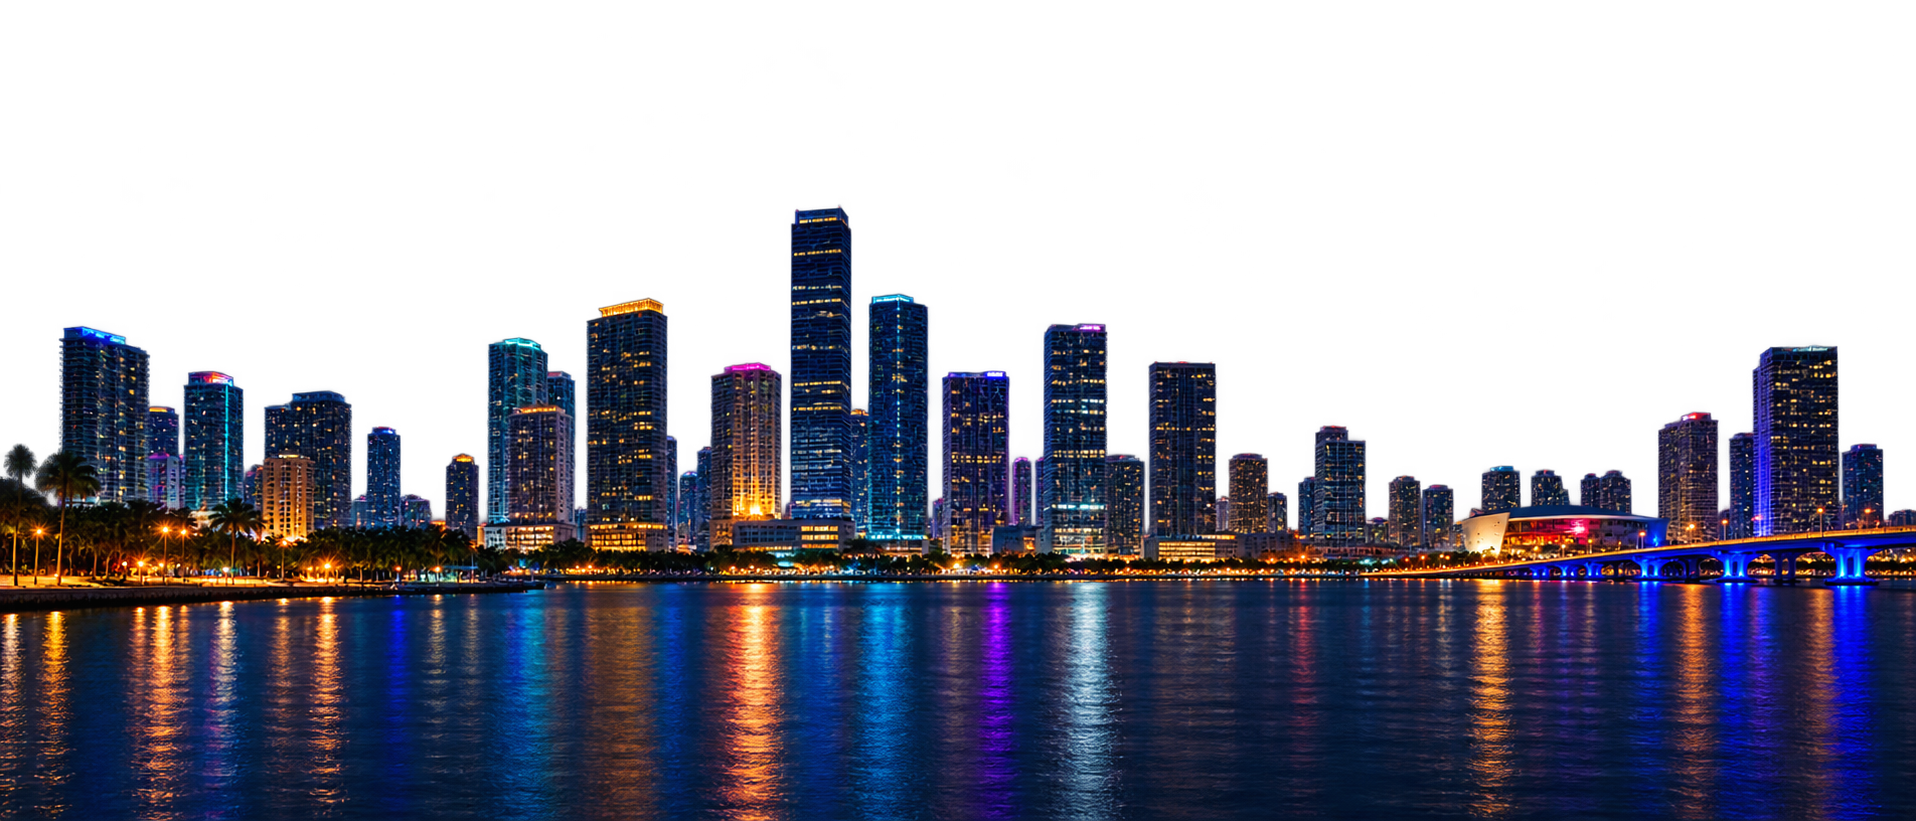
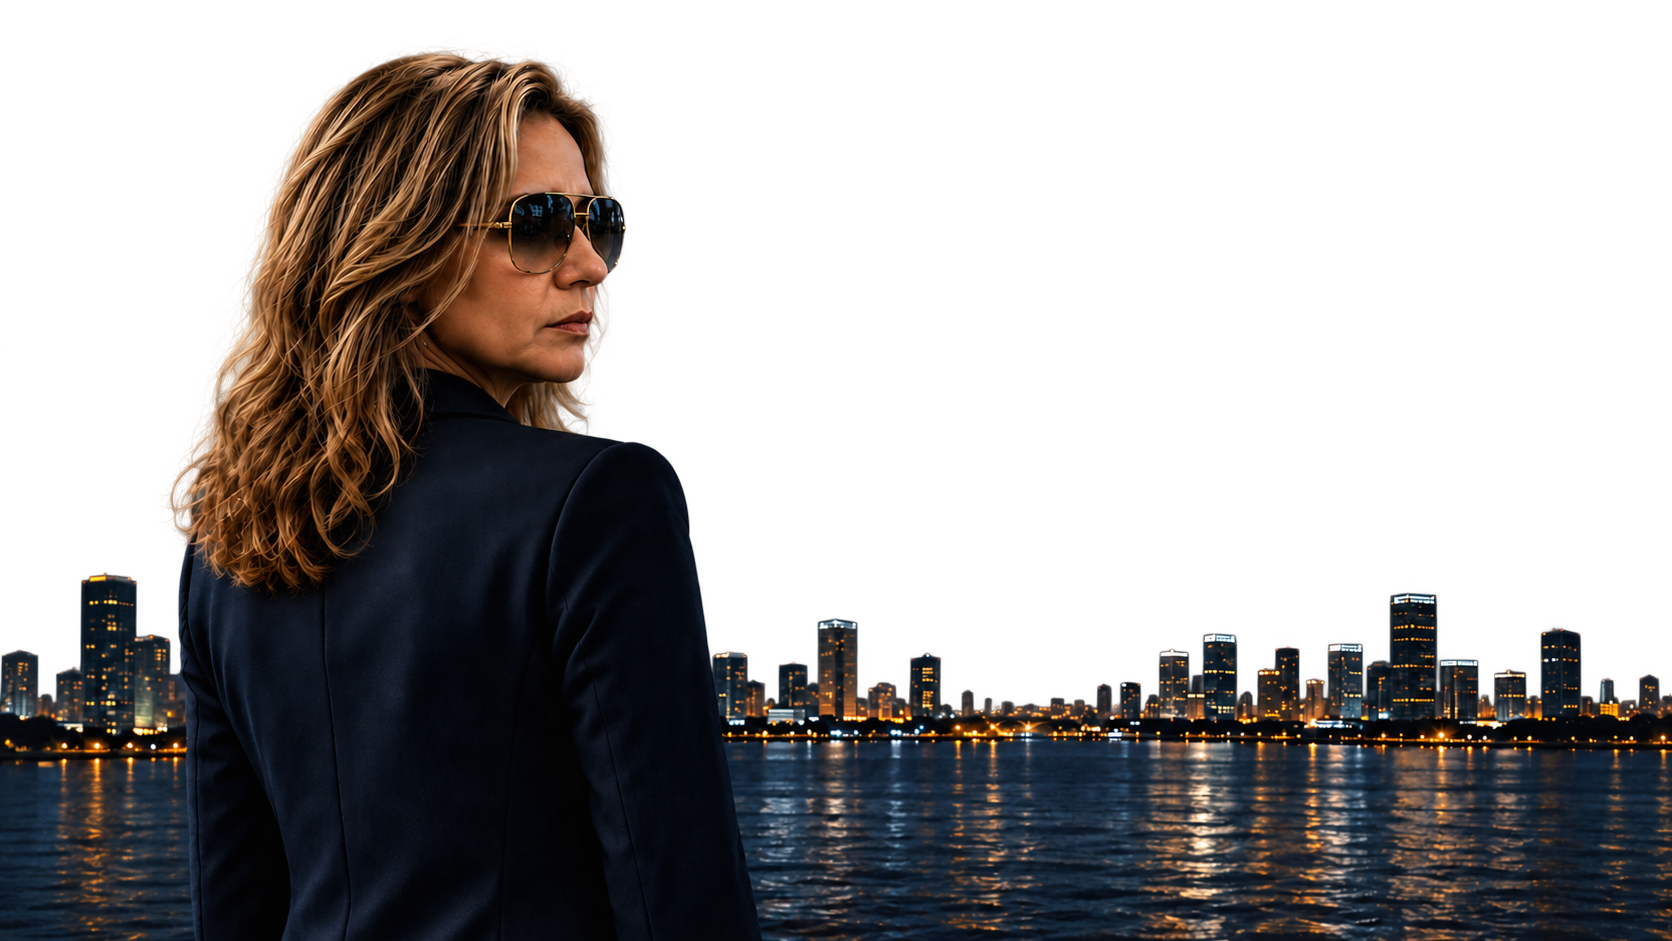
Fix visual fidelity bugs found via automated browser screenshot QA
Installed Playwright in an isolated scratchpad (not a project dependency)
to screenshot localhost and compare directly against the Figma reference
captures. Found and fixed 3 real bugs:

- Header nav and Service item zigzag content were invisible on desktop:
  the CSS-only <details> "force open" trick only overrode display on the
  child, but modern Chromium hides closed <details> content via
  content-visibility on the ::details-content pseudo-element. Now
  overridden directly.
- Hero photo used the wrong Figma image node (skyline only) instead of
  the composited photo (person + skyline, transparent background).
- Mobile order didn't match Figma: Hero should show the brand lockup
  before the photo (not after), and About should show the stats grid
  before the bio text with no photo at all on mobile (desktop-only).
  Also fixed ValueBadges to show a single row of 5 icons on mobile
  instead of a 2-column wrap.

diff --git a/CLAUDE.md b/CLAUDE.md
@@ -131,10 +131,8 @@ Ver `PROJECT_STATUS.md` para el detalle completo por fases. Estado actual resumi
 - [x] Fase 0 — Acceso y descubrimiento de Figma
 - [x] Fase 1 — Arquitectura
 - [x] Fase 2 — Design System (componentes base)
-- [x] Fase 3 — Primera página (Home) — implementación completa; QA visual pixel-a-pixel pendiente (sin navegador disponible en este entorno)
-- [ ] Fase 2 — Design System
-- [ ] Fase 3 — Primera página (Home)
-- [ ] Fase 4 — Páginas internas
+- [x] Fase 3 — Primera página (Home) — implementación completa; QA visual pixel-a-pixel en curso con el usuario
+- [ ] Fase 4 — Páginas internas (no aplica como páginas separadas, ver decisión de sitio de una sola página)
 - [ ] Fase 5 — Responsive global
 - [ ] Fase 6 — SEO técnico
 - [ ] Fase 7 — Performance
@@ -164,3 +162,9 @@ _(Se irá completando a medida que se tomen decisiones de arquitectura/diseño/s
 - **2026-09-18:** Acceso a Figma obtenido vía API REST + Personal Access Token del usuario (archivo `TARGET-investigations`, file key `wNuM1O9AljP8HJUpOXFFro`). Auditoría de Fase 0 completada (estructura, contenido real, colores, tipografías, componentes). Usuario confirmó: (1) usar la versión "Moodboard" del frame Website como vigente, (2) el sitio es de una sola página con navegación por anclas, (3) interpolar el breakpoint tablet con criterio propio ante la ausencia de un frame de tablet en Figma. Ver sección Figma para el detalle completo.
 - **2026-09-18:** Fase 1 completada (Astro + TS strict, ESLint/Prettier, design tokens, site.config, layout base, git init + commit inicial). Fase 2 completada: componentes del Design System (Container, Section, Button, Header, Footer, ValueBadges, StatBadges, AccordionItem/FaqAccordion, SocialLink), con íconos reales exportados de Figma (logo, 5 value badges, 4 redes sociales). Se documentaron 2 deviaciones de diseño (ver "Decisiones confirmadas" arriba): FAQ como acordeón vertical en vez de tablero masonry, y botón CTA con color sólido en vez del gradiente exacto de Figma.
 - **2026-09-18:** Usuario preguntó por las diferencias entre el acceso vía API REST+Token (actual) y Dev Mode MCP Server; se concluyó que no hay limitación real de datos con el método actual (se verificó extrayendo el gradiente exacto del botón, que sí estaba disponible), y se decidió continuar con la API REST. Se aplicó el gradiente exacto del botón (`linear-gradient(90deg, #E9C37E 0%, #D4A95A 100%)`), resolviendo esa deviación. Fase 3 completada: se exportaron las fotos reales de Figma (hero, about, y las 2 fotos reutilizadas en las 9 tarjetas de servicio — confirmado que Figma reutiliza las mismas 2 imágenes en las 9 categorías), optimizadas automáticamente a WebP responsive vía `astro:assets`. Se ensambló el Home completo (Hero, Services, About, FAQs, Contact, Footer) con contenido 100% real. **Limitación de este entorno:** no hay navegador disponible para hacer QA visual pixel-a-pixel contra Figma; la implementación se validó con `check`/`lint`/`build`/`curl`, pero la comparación visual formal (Fase 24) queda pendiente.
+- **2026-09-18:** Se instaló Playwright de forma aislada (fuera del proyecto, en el scratchpad de la sesión) para poder tomar capturas del `localhost:4321` y compararlas directamente contra las capturas de Figma. Esto permitió detectar y corregir 3 bugs reales de fidelidad visual:
+  1. **Bug de `<details>`/`::details-content` en Chromium moderno:** el truco CSS-only para forzar "abierto" el Header nav y el zigzag de Services en desktop (`display:flex` en el hijo) no funcionaba, porque los navegadores actuales ocultan el contenido cerrado de `<details>` vía `content-visibility` en el pseudo-elemento `::details-content`, no solo con `display:none`. El nav del header y el contenido de las tarjetas de servicio literalmente no se veían en desktop. **Fix:** anular `::details-content { content-visibility: visible; block-size: auto; }` en el breakpoint desktop, en `Header.astro` y `ServiceItem.astro`.
+  2. **Foto del Hero incorrecta:** se había usado el nodo de Figma equivocado (`53:61`, solo el skyline) en vez del nodo con la foto compuesta real (`174:113`, mujer + skyline con fondo transparente). Corregido en `src/images/hero.png`.
+  3. **Orden mobile incorrecto en Hero y About:** en Figma mobile, el Hero muestra el lockup/tagline/botón ANTES de la foto (no después), y la sección About muestra el grid de stats ANTES de la bio y **sin foto visible** (la foto de About es solo para desktop). Corregido con reordenamiento de DOM + `order`/`grid-template-areas` en `Hero.astro` y `About.astro`. También se corrigió `ValueBadges.astro` para mostrar los 5 íconos en una sola fila también en mobile (antes era grid de 2 columnas).
+
+  Ninguno de estos bugs era evidente sin comparación visual real — quedaron documentados aquí porque confirman el valor de tener acceso a navegador para QA, más allá de lo que decía el JSON de Figma.

diff --git a/PROJECT_STATUS.md b/PROJECT_STATUS.md
@@ -73,7 +73,7 @@ Leyenda: `[ ]` Pendiente · `[~]` En progreso · `[x]` Completado · `[!]` Bloqu
 - [x] Implementación desktop — Hero (split foto/lockup), Services (zigzag 9 categorías), About (bio + stats), FAQs, CTA, Footer
 - [x] Implementación mobile — Hero apilado, Services como acordeón nativo (`<details>`), menú de header sin JS
 - [ ] Validación responsive intermedio (tablet) — implementado con breakpoint interpolado (1024px para el cambio zigzag/acordeón y grid de footer/about; 768px para grid de footer), **pendiente de revisión visual real en dispositivo/DevTools**
-- [ ] Revisión de fidelidad pixel-a-pixel vs. Figma — **pendiente**: no se pudo renderizar un navegador en este entorno para comparar visualmente contra las capturas de Figma; se construyó con las medidas/colores/contenido reales extraídos, pero falta el QA visual lado a lado (ver sección "Pendientes" abajo)
+- [x] Revisión de fidelidad pixel-a-pixel vs. Figma — se instaló Playwright de forma aislada para tomar capturas reales de `localhost:4321` y compararlas contra Figma. Se encontraron y corrigieron 3 bugs reales: (1) el truco CSS de `<details>` para el nav del header y el zigzag de servicios no funcionaba en Chromium moderno por `content-visibility`/`::details-content`, (2) la foto del Hero era el nodo de Figma equivocado (solo skyline, sin la persona), (3) el orden mobile de Hero/About y el layout de ValueBadges no coincidían con Figma. Ver detalle en `CLAUDE.md`.
 - [x] Revisión de accesibilidad — HTML semántico (`h1` único real, no imagen; `h2` por sección), acordeones nativos sin JS, alt text en fotos, iconos decorativos con `aria-hidden`, foco visible en botones/links, `prefers-reduced-motion` respetado
 - [~] Revisión de performance — imágenes optimizadas automáticamente a WebP responsive vía `astro:assets` (reducción de ~1.8-2.2MB por foto a 17-340KB según tamaño); falta auditoría formal de Lighthouse (Fase 7)
 - [x] Corrección de patrones antes de continuar — componentes de Fase 2 reutilizados consistentemente (Button, Container, Section, AccordionItem, StatBadges, ValueBadges)
@@ -83,8 +83,7 @@ Leyenda: `[ ]` Pendiente · `[~]` En progreso · `[x]` Completado · `[!]` Bloqu
 **Contenido real completo:** las 9 categorías de servicio con sus listas de sub-servicios (bullets) son contenido real del cliente, extraído completo de Figma.
 
 **Pendiente:**
-- QA visual pixel-a-pixel contra Figma (requiere navegador — no disponible en este entorno de ejecución; se recomienda que el usuario abra `npm run dev` y compare, o se retome en una sesión con navegador/Chrome disponible).
-- Validar breakpoint tablet en un viewport intermedio real.
+- Revisión visual fina adicional por parte del usuario (colores exactos, espaciados, detalles menores que la comparación automatizada no capta perfectamente).
 - Auditoría formal de Lighthouse (Fase 7).
 
 **Validado en este entorno:** `npm run check`/`lint`/`format:check` limpios, `npm run build` genera `dist/` sin errores (incluye generación de imágenes optimizadas), servidor de desarrollo probado con `curl` — el único `<h1>` de la página es la tagline real ("The truth is our target"), hay 31 elementos `<details>` (1 menú mobile + 9 acordeones de servicio + 20 FAQs + 1 "show more" de About), y las imágenes incluyen `width`/`height`/`srcset`/`loading` correctos.
